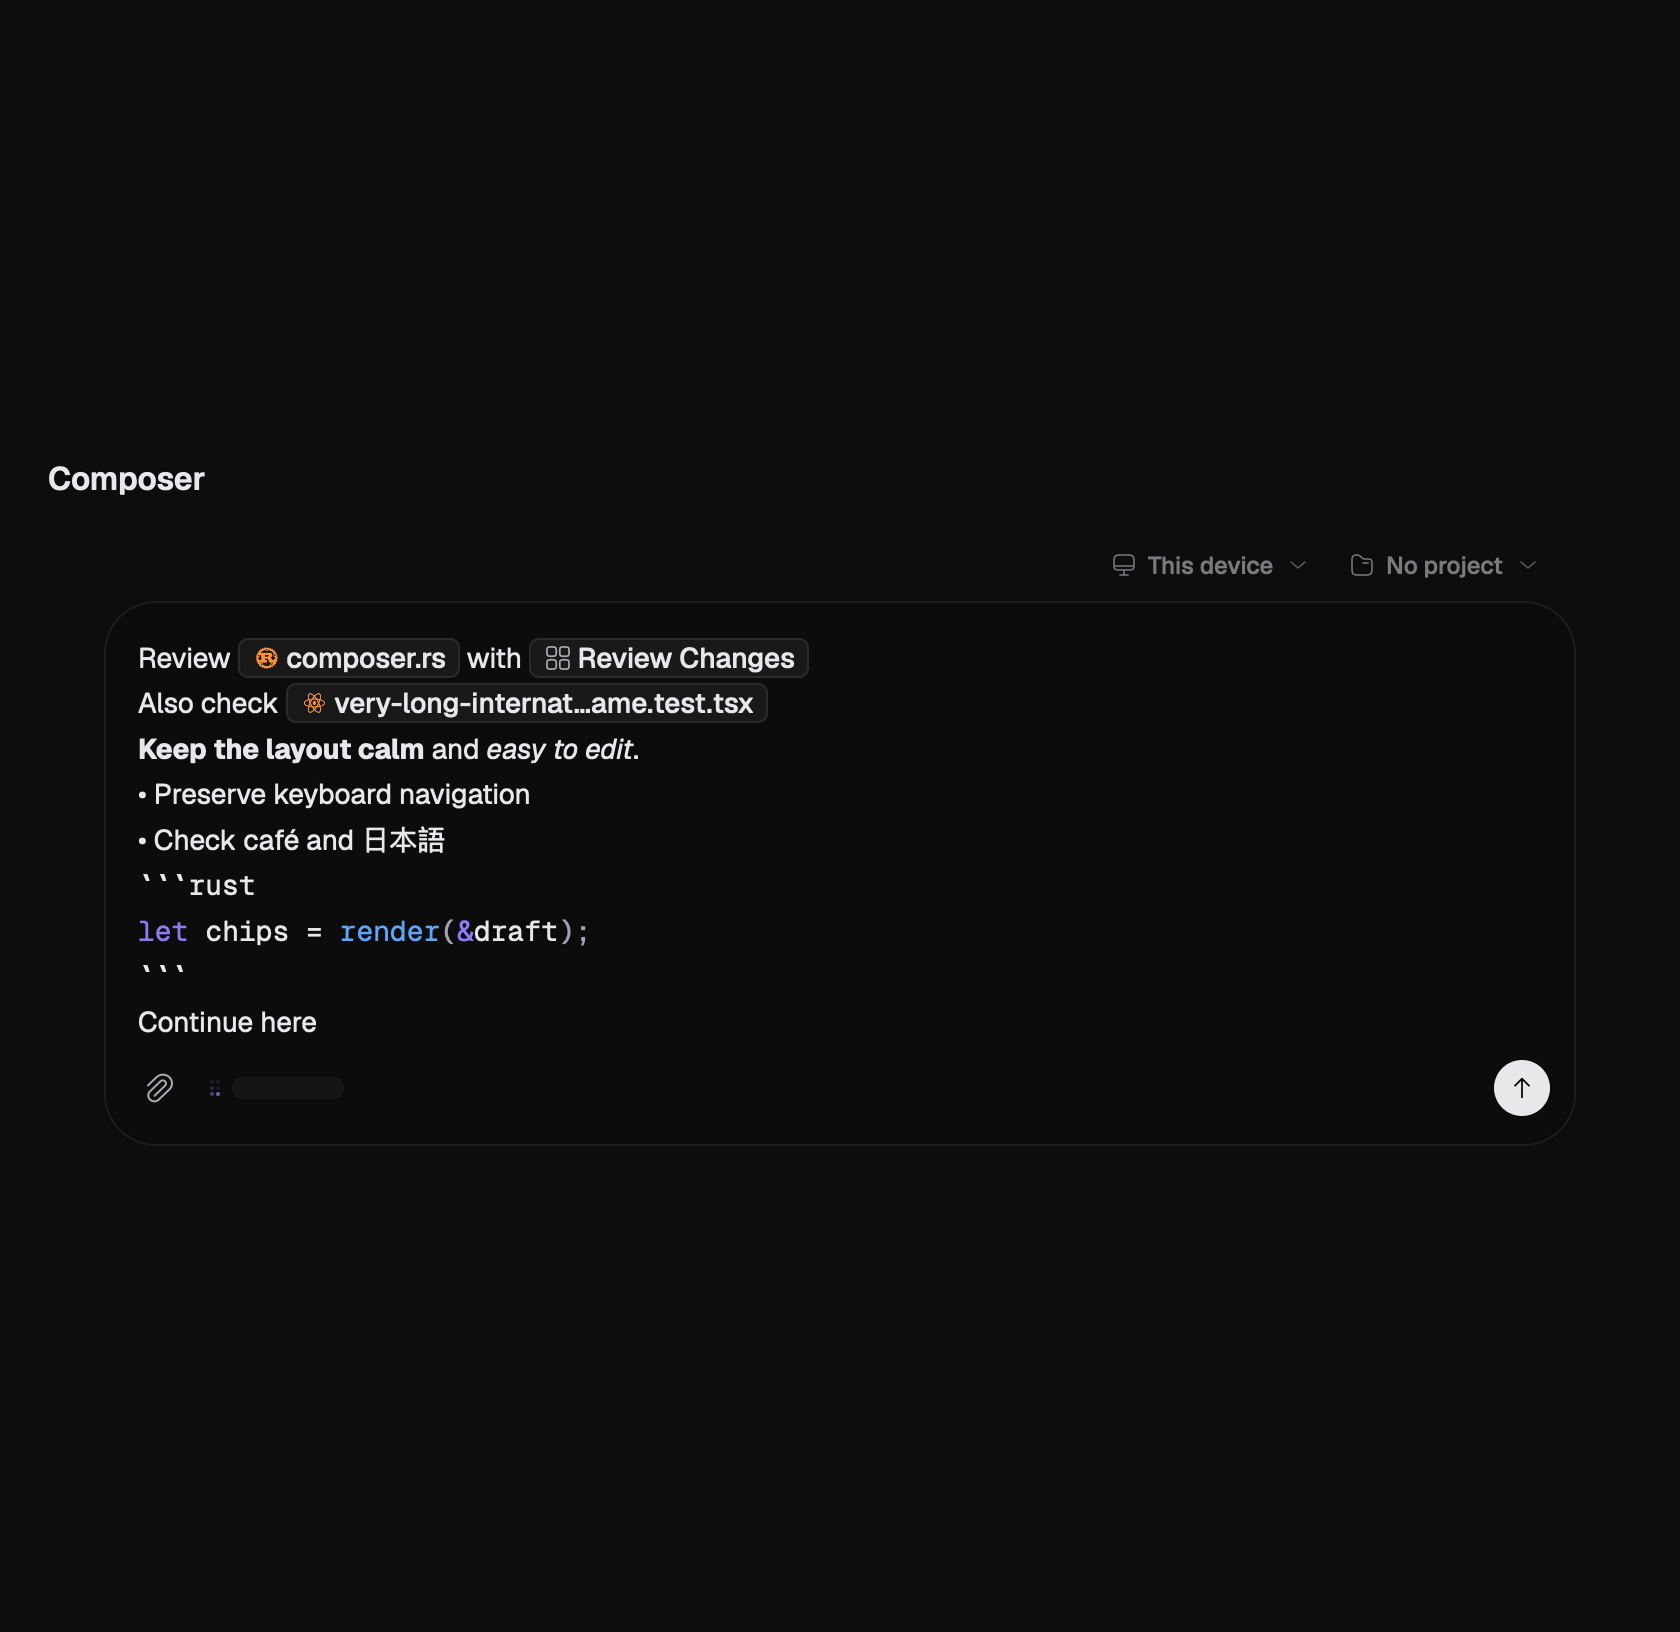
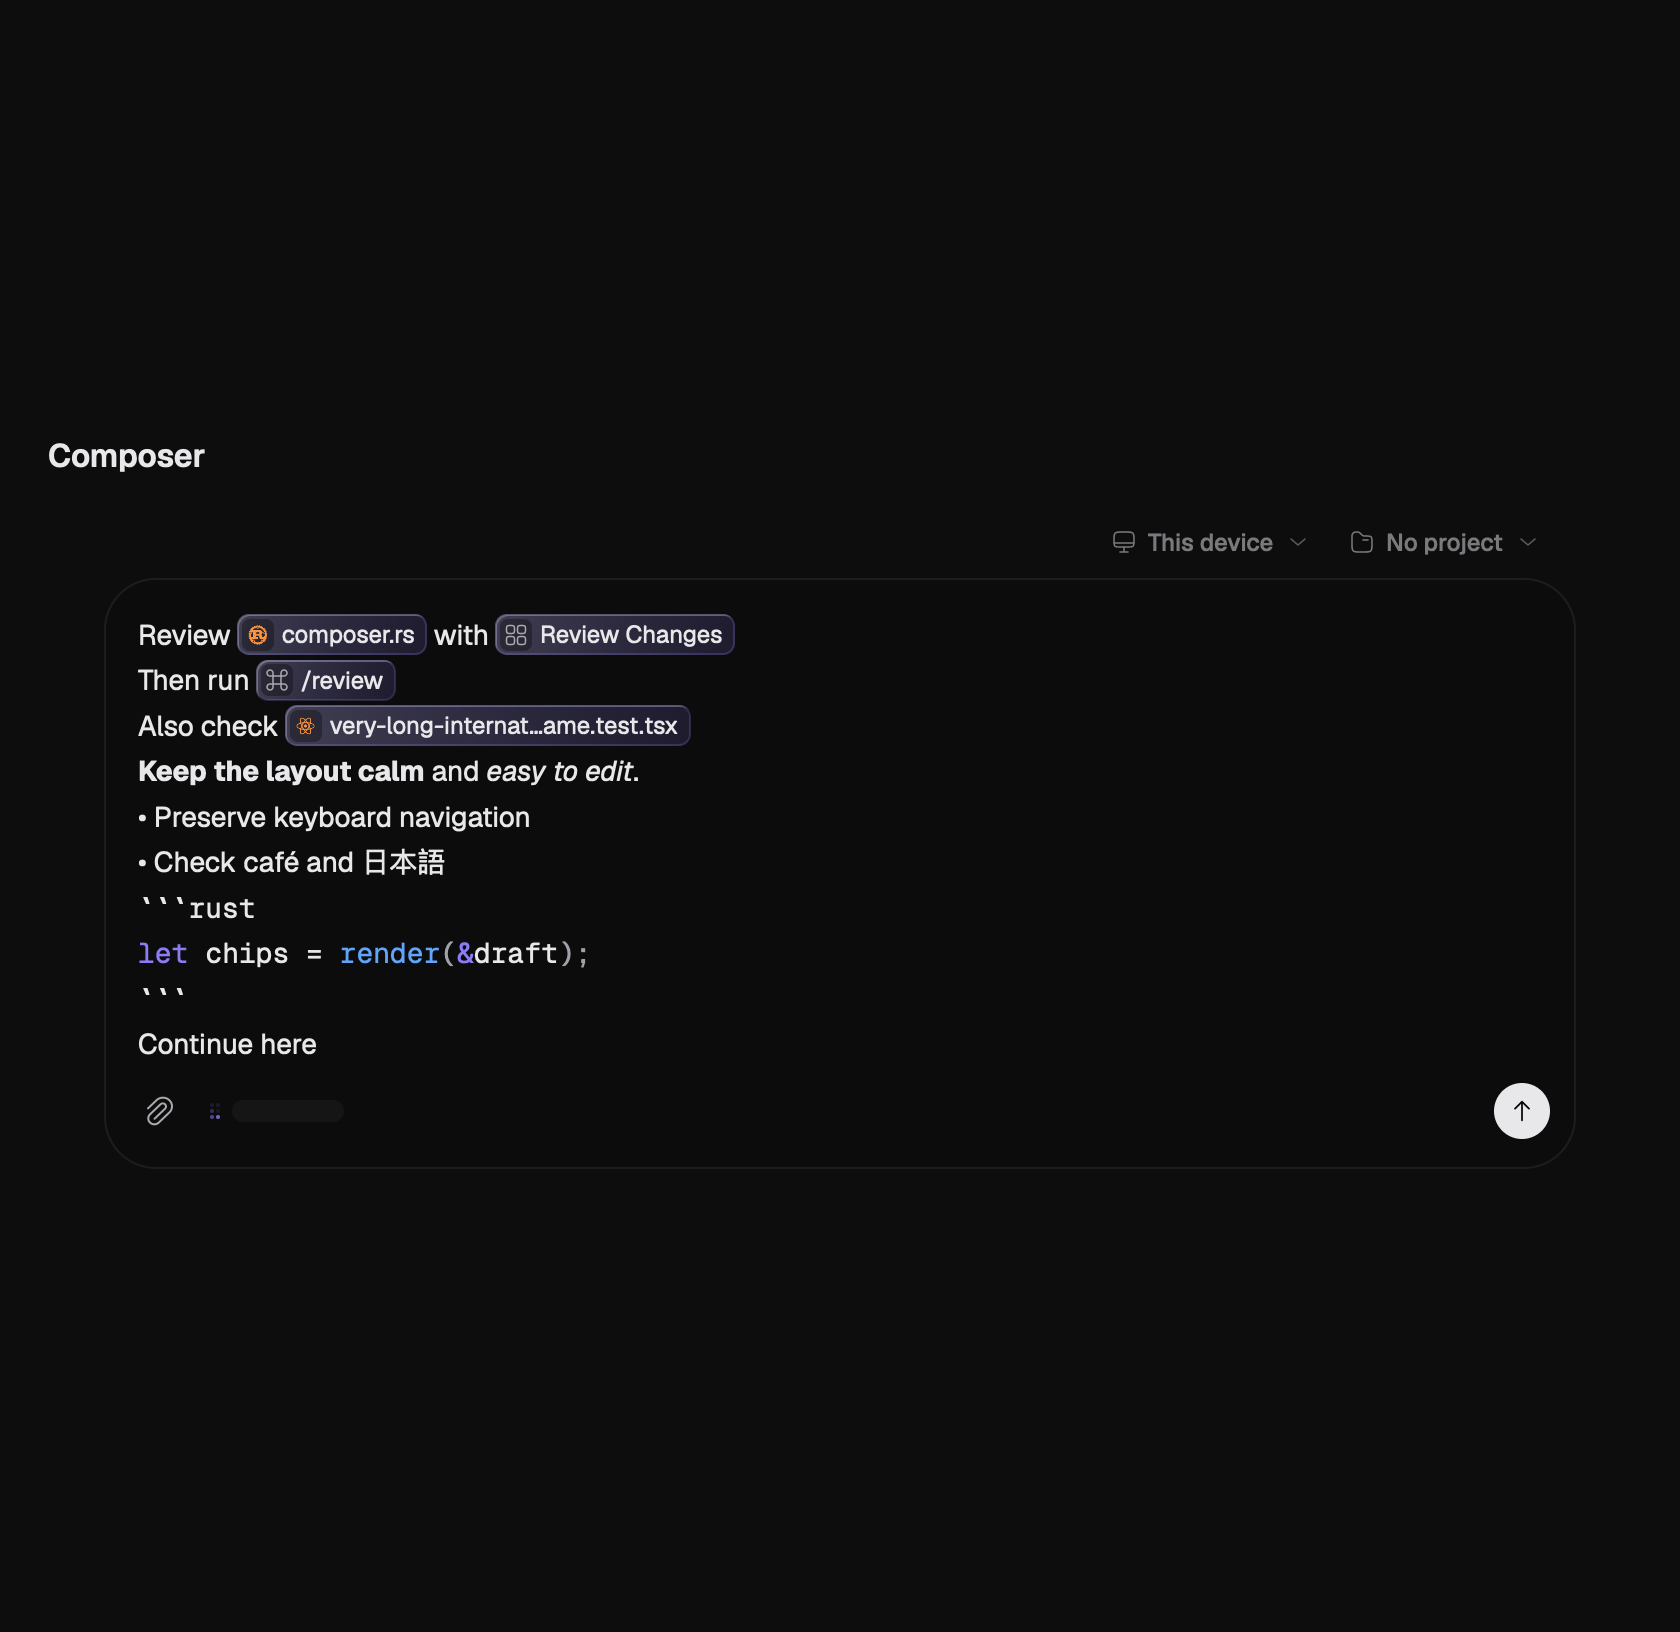
Refresh rich composer screenshots and review notes

diff --git a/crates/ui/examples/composer-polish-fixture.rs b/crates/ui/examples/composer-polish-fixture.rs
@@ -207,7 +207,8 @@ fn main() -> anyhow::Result<()> {
         let skill = zeron_proto::invocation::Invocation::Skill { name: "review-changes".into(), path: "/project/.agents/skills/review-changes/SKILL.md".into(), command: None }.link();
         let file = zeron_proto::file_mentions::local_file_link("src/composer.rs", false);
         let long_file = zeron_proto::file_mentions::local_file_link("src/components/very-long-internationalized-component-name.test.tsx", false);
-        let draft = format!("Review {file} with {skill}\nAlso check {long_file}\n**Keep the layout calm** and _easy to edit_.\n- Preserve keyboard navigation\n- Check café and 日本語\n```rust\nlet chips = render(&draft);\n```\nContinue here");
+        let command = zeron_proto::invocation::Invocation::Command { name: "review".into() }.link();
+        let draft = format!("Review {file} with {skill}\nThen run {command}\nAlso check {long_file}\n**Keep the layout calm** and _easy to edit_.\n- Preserve keyboard navigation\n- Check café and 日本語\n```rust\nlet chips = render(&draft);\n```\nContinue here");
         composer.update(cx, |view, cx| view.fixture_rich_draft(&draft, cx));
         let window = cx.open_window(WindowOptions { window_bounds: Some(WindowBounds::Windowed(Bounds::new(gpui::point(px(40.), px(40.)), size(px(840.), px(960.))))), ..Default::default() }, |_, cx| cx.new(|_| Fixture { composer, agents, settings: true, title: "Composer" })).unwrap();
         cx.activate(true);

diff --git a/docs/screenshots/rich-composer/README.md b/docs/screenshots/rich-composer/README.md
@@ -1,15 +1,19 @@
-# Rich composer evidence
+# Rich composer screenshots
 
-These native GPUI captures come from the isolated `composer-polish-fixture` at source commit `6cd315d6b1c608177b3c53bf6310d97673843431` on `codex/rich-composer`. The fixture used synthetic content, a fresh temporary settings directory, and no network or engine connection.
+Captured on 20 September 2026 from the native `composer-polish-fixture`, using production code at `f6eaec50e873ec5fcb50e9b73503f36fb29772dd` plus the fixture-only `/review` example included with these images.
 
-- `composer-dark-840.png` shows Markdown editing with canonical file and skill chips at the wide dark appearance.
-- `unicode-wrap-selection-light-440.png` shows narrow Unicode wrapping and a selection spanning rich content in the light appearance.
+- `composer-dark-840.png` and `composer-light-840.png` show Markdown and file, command, and skill chips in both appearances.
+- `unicode-wrap-selection-light-440.png` shows selection across wrapped text and chips in a narrow composer.
 
-The fixture was built with:
+The fixture uses synthetic content, a fresh temporary settings directory, and no engine or network connection. Its disconnected model control is expected. The filenames describe requested logical window widths; the operating system may constrain the final window size.
+
+Build command:
 
 ```sh
 CARGO_INCREMENTAL=0 cargo build --locked -p zeron-ui \
   --example composer-polish-fixture --features appshots-fixture
 ```
 
-It generated 42 dark/light frames at 840 and 440 logical pixels. These two representative frames were visually inspected for chip alignment, Markdown layout, Unicode wrapping, selection geometry, and containment. The fixture exited successfully. Static captures do not establish animation performance.
+The build and capture run completed successfully. The published frames were visually inspected for chip spacing, icon alignment, light/dark contrast, wrapping, selection geometry, and containment. These static, offline captures do not verify animation performance or live agent delivery.
+
[1 lines of base64/hex data omitted]
